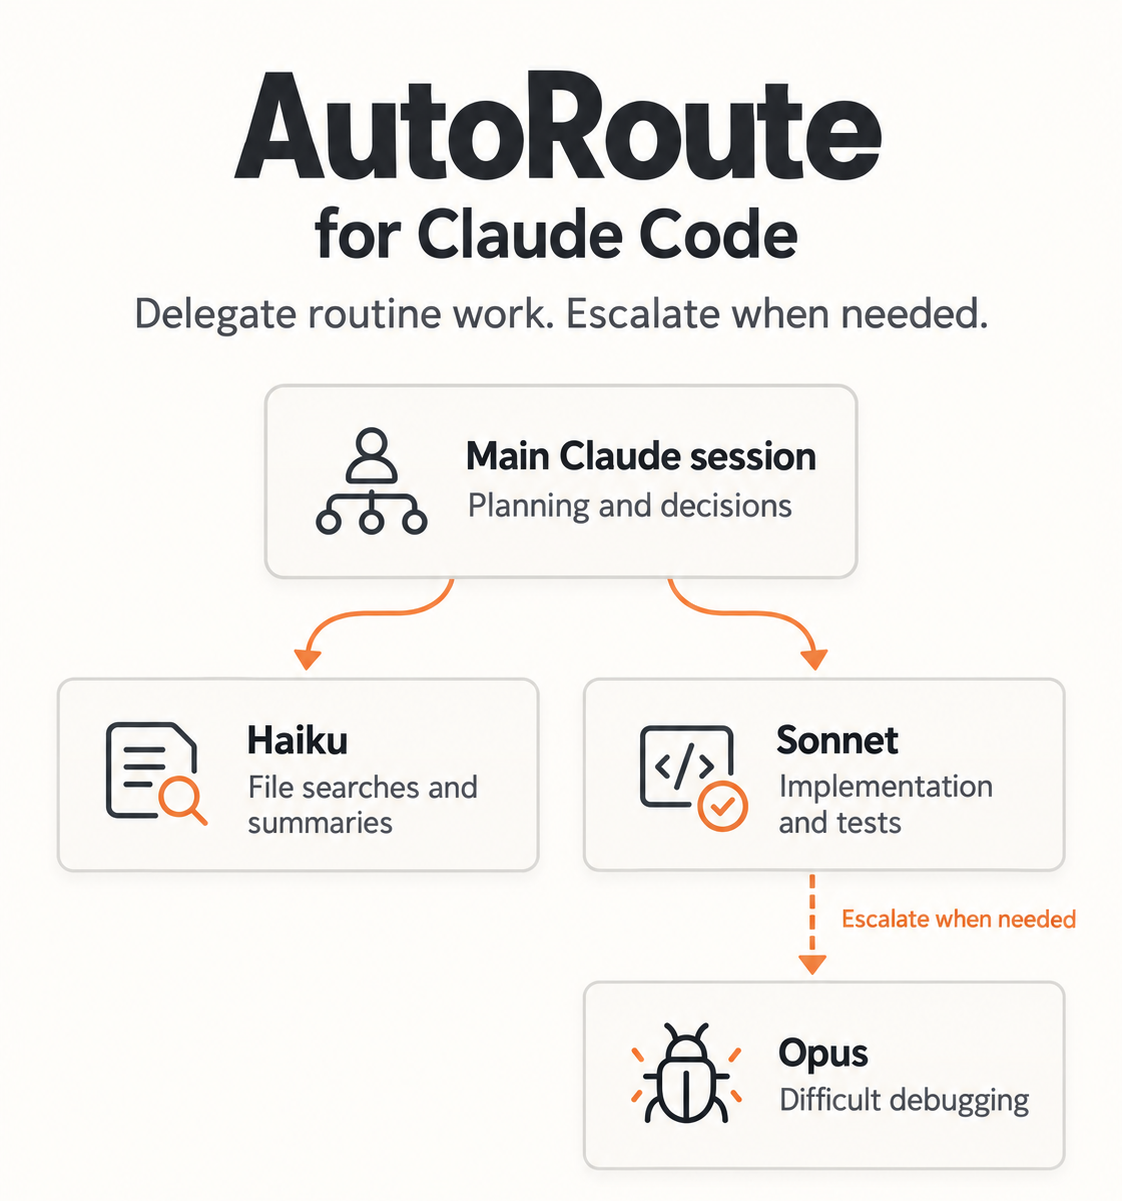
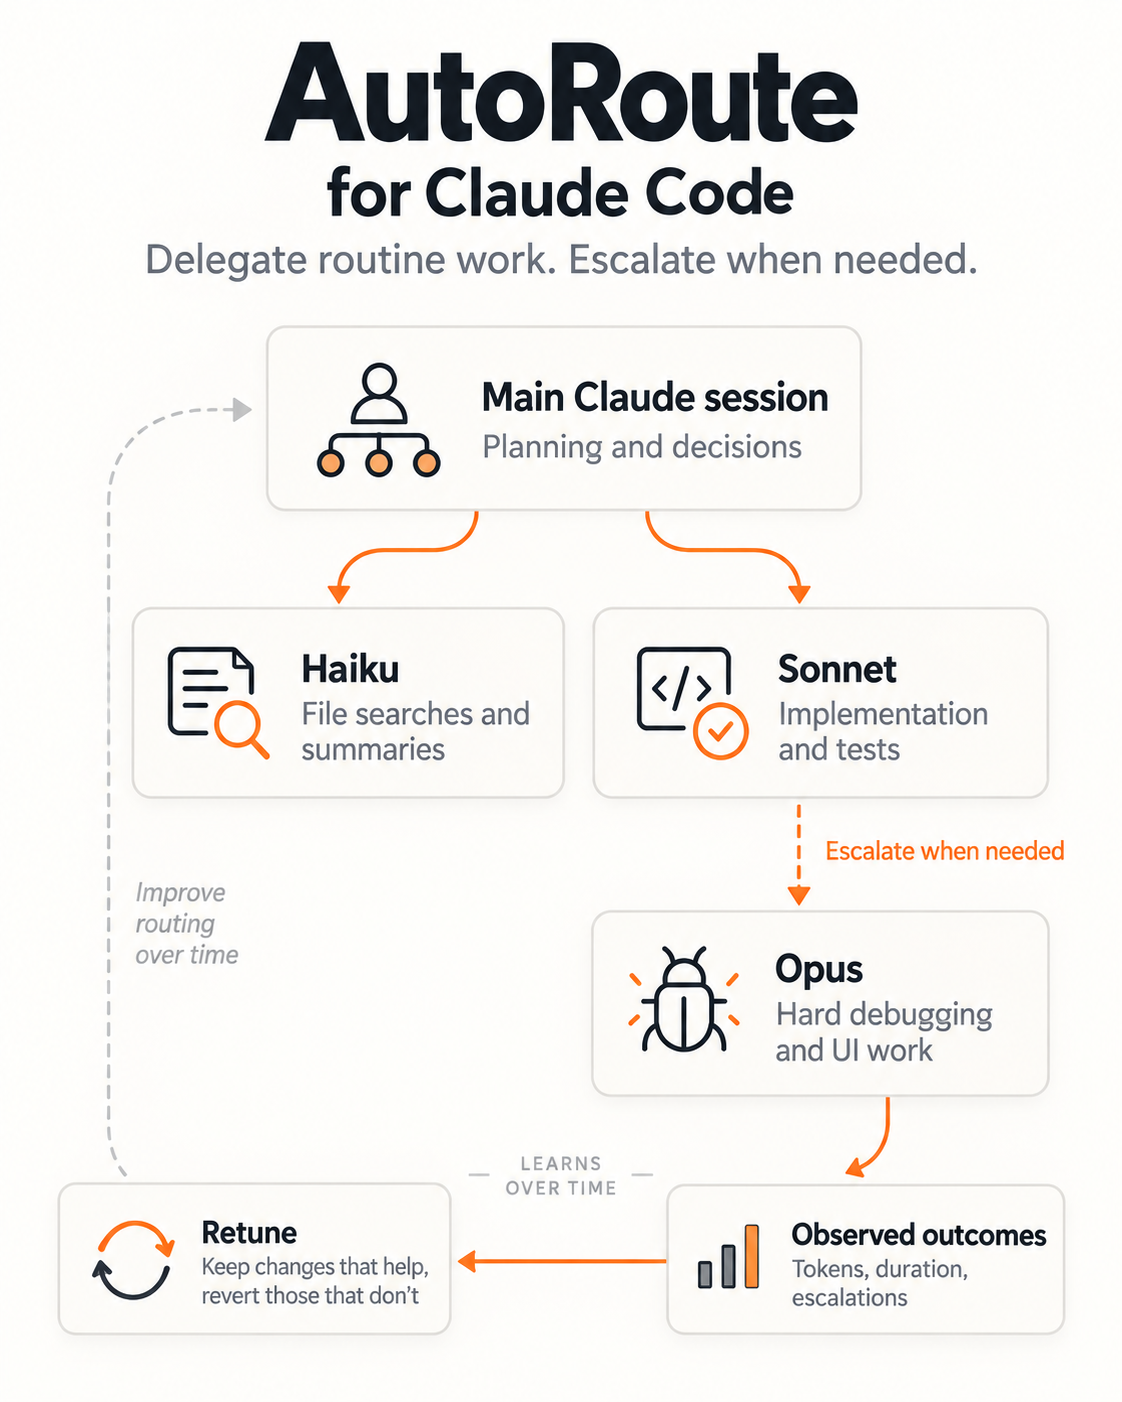
README image: full loop with observed outcomes and retune

diff --git a/README.md b/README.md
@@ -1,6 +1,6 @@
 # AutoRoute for Claude Code
 
-<p align="center"><img src="docs/autoroute.png" alt="AutoRoute for Claude Code: the main session plans and decides, Haiku does file searches and summaries, Sonnet does implementation and tests, Opus takes difficult debugging when Sonnet escalates" width="560"></p>
+<p align="center"><img src="docs/autoroute.png" alt="AutoRoute for Claude Code: the main session plans and decides, Haiku does file searches and summaries, Sonnet does implementation and tests, Opus takes hard debugging and UI work when Sonnet escalates; observed outcomes (tokens, duration, escalations) feed a retune step that keeps changes that help and reverts those that do not" width="560"></p>
 
 AutoRoute is Claude Code model routing built on Claude Code subagents, spreading work across Haiku, Sonnet, and Opus with failure tracking and experimental self-tuning.
 
